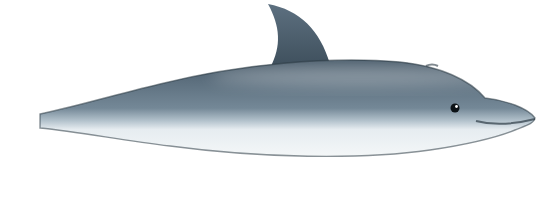
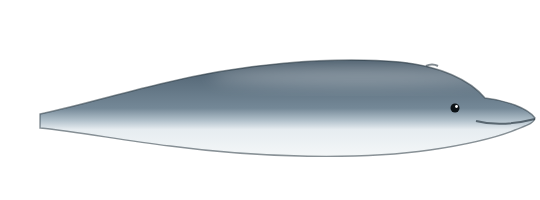
1.2.0: shark and dolphin dorsal fins flex with each tail beat; bigger side-fin strokes
Claude-Session: https://claude.ai/code/session_01TjXjoGUoKzCAKPjEBqhxMT

Changed region(s): [[0.4741, 0.03, 0.6222, 0.33]]

diff --git a/tools/make-art.js b/tools/make-art.js
@@ -317,7 +317,6 @@ asset('shark_body', 850, 320, () => {
   return `<defs>${lin('sk', [[0, '#34495a'], [0.45, '#5d7586'], [0.58, '#8fa3b0'], [0.66, '#e1e7eb'], [1, '#f5f7f8']])}
     ${tipGrad('dg', 525, 100, 462, 8)}${tipGrad('pg', 600, 205, 490, 306)}${tipGrad('fg', 610, 205, 570, 280)}
     <clipPath id="bc"><path d="${body}"/></clipPath>${blur('b10', 10)}${blur('b2', 2)}</defs>
-  <path d="M575,100 C545,45 505,18 462,6 C468,40 470,78 448,106 Z" fill="url(#dg)"/>
   <path d="M235,132 C225,112 212,102 196,98 C200,112 200,124 192,138 Z" fill="#40576a"/>
   <path d="${body}" fill="url(#sk)"/>
   <g clip-path="url(#bc)">
@@ -336,6 +335,9 @@ asset('shark_body', 850, 320, () => {
 const sharkTip = (id, x1, y1, x2, y2) => lin(id, [[0, '#4d6679'], [0.72, '#3f5668'], [0.84, '#141c22'], [1, '#0a0f13']], x1, y1, x2, y2, 'gradientUnits="userSpaceOnUse"');
 asset('shark_pec', 134, 114, () => `<defs>${sharkTip('pg', 114, 9, 4, 110)}</defs>
   <path d="M129,4 C109,44 59,86 4,110 C36,66 44,36 42,16 Z" fill="url(#pg)"/>`);
+// dorsal fin, behind the body; its base runs down into the body so no gap shows as it flexes
+asset('shark_dorsal', 136, 120, () => `<defs>${sharkTip('dg', 81, 98, 18, 6)}</defs>
+  <path d="M131,98 C101,43 61,16 18,4 C24,38 26,76 4,104 L4,118 L131,118 Z" fill="url(#dg)"/>`);
 asset('shark_pecf', 78, 83, () => `<defs>${sharkTip('fg', 44, 4, 4, 79)}</defs>
   <path d="M74,4 C64,34 34,61 4,79 C19,49 24,27 24,11 Z" fill="url(#fg)" opacity=".9"/>`);
 asset('shark_tail', 272, 320, () => `<defs>${lin('t', [[0, '#3b5163'], [0.6, '#52697b'], [1, '#2e3f4c']])}
@@ -534,7 +536,6 @@ asset('octo_arms', 300, 160, () => {
 asset('dolphin_body', 540, 200, () => {
   const body = 'M535,118 C528,108 505,100 485,98 C470,80 440,66 400,62 C330,56 240,64 160,84 C110,96 70,108 40,114 L40,128 C80,132 120,140 170,146 C260,158 360,160 430,150 C470,144 500,136 515,130 C525,126 534,124 535,118 Z';
   return `<defs>${lin('d', [[0, '#4a5c6b'], [0.5, '#748897'], [0.63, '#b3c2cc'], [0.72, '#e6ecf0'], [1, '#f4f7f8']])}${lin('fin', [[0, '#5d7080'], [1, '#3e4f5c']])}<clipPath id="c"><path d="${body}"/></clipPath>${blur('b8', 8)}</defs>
-  <path d="M330,64 C320,30 300,10 268,4 C280,26 282,46 270,68 Z" fill="url(#fin)"/>
   <path d="${body}" fill="url(#d)"/>
   <g clip-path="url(#c)"><ellipse cx="360" cy="76" rx="150" ry="10" fill="#fff" opacity=".3" filter="url(#b8)"/></g>
   <path d="${body}" fill="none" stroke="#2c3a44" stroke-width="1.4" opacity=".55"/>
@@ -542,6 +543,8 @@ asset('dolphin_body', 540, 200, () => {
   <circle cx="455" cy="108" r="4.5" fill="#0c1216"/><circle cx="456.5" cy="106.5" r="1.4" fill="#fff"/>
   <path d="M426,66 C430,64 434,64 438,66" stroke="#2c3a44" stroke-width="2" fill="none" opacity=".6"/>`;
 });
+asset('dolphin_dorsal', 70, 82, () => `<defs>${lin('fin', [[0, '#5d7080'], [1, '#3e4f5c']])}</defs>
+  <path d="M66,62 C56,28 36,8 4,2 C16,24 18,44 6,66 L6,80 L66,80 Z" fill="url(#fin)"/>`);
 asset('dolphin_pec', 68, 58, () => `<defs>${lin('fin', [[0, '#5d7080'], [1, '#3e4f5c']])}</defs>
   <path d="M64,2 C54,27 29,47 2,54 C16,32 24,17 26,2 Z" fill="url(#fin)"/>`);
 asset('dolphin_tail', 140, 130, () => `<defs>${lin('t', [[0, '#55697a'], [1, '#3c4c58']])}</defs>
@@ -977,7 +980,7 @@ const list = sizesOnly ? [] : only.length ? assets.filter((a) => only.includes(a
 if ((!only.length && !sizesOnly) || only.includes('caustics')) { caustics('caustics_a', 11); caustics('caustics_b', 29); }
 const profile = path.join(TMP, 'chrome-profile');
 // Roku can't mirror images with negative scale, so creatures also get a pre-flipped "_l" (facing left) copy.
-const MIRROR = new Set(['clown_body', 'clown_tail', 'clown_pec', 'tang_pec', 'ytang_pec', 'angel_pec', 'shark_pec', 'shark_pecf', 'dolphin_pec', 'whale_fin', 'tang_body', 'tang_tail', 'ytang_body', 'ytang_tail', 'angel_body', 'angel_tail',
+const MIRROR = new Set(['clown_body', 'clown_tail', 'clown_pec', 'tang_pec', 'ytang_pec', 'angel_pec', 'shark_pec', 'shark_pecf', 'shark_dorsal', 'dolphin_pec', 'dolphin_dorsal', 'whale_fin', 'tang_body', 'tang_tail', 'ytang_body', 'ytang_tail', 'angel_body', 'angel_tail',
   'school_fish', 'shark_body', 'shark_tail', 'turtle_body', 'turtle_flipper', 'turtle_rear', 'manta', 'whale',
   'octo_body', 'octo_arms', 'dolphin_body', 'dolphin_tail', 'lion_body', 'lion_fin', 'lion_tail', 'seahorse', 'seahorse_fin', 'crab_legs', 'diver_body', 'diver_leg', 'shrimp', 'shrimp_finger']);
 const jobs = [];

diff --git a/store/LISTING.md b/store/LISTING.md
@@ -27,7 +27,7 @@ Settings (Settings > Theme > Screensavers > Reefscape > Custom settings):
 No account, no ads, no internet connection needed, and no data collected.
 
 ## Release notes
-1.1.9: Garden eels, fish that scatter from sharks, full-moon coral spawning, sea stars that crawl, drifting seahorses, fish and sharks with moving fins, a setting for how many animals swim at once, Scuba Steve the diver, and smoother animation on older Roku models.
+1.2.0: Garden eels, fish that scatter from sharks, full-moon coral spawning, sea stars that crawl, drifting seahorses, fish and sharks with moving fins, a setting for how many animals swim at once, Scuba Steve the diver, and smoother animation on older Roku models.
 
 1.0: First release.
 
@@ -46,7 +46,7 @@ No account, no ads, no internet connection needed, and no data collected.
 - Screenshots 1920x1080: screenshots/1-reef-day.jpg ... 6-clock.jpg (settings-screen.jpg is a spare)
 
 ## Package
-- ../signing/Reefscape-1.1.9.pkg (signed; keep ../signing/SIGNING-KEY.txt safe)
+- ../signing/Reefscape-1.2.0.pkg (signed; keep ../signing/SIGNING-KEY.txt safe)
 
 ## Web pages the profile asks for
 - Privacy policy: privacy-policy.html
